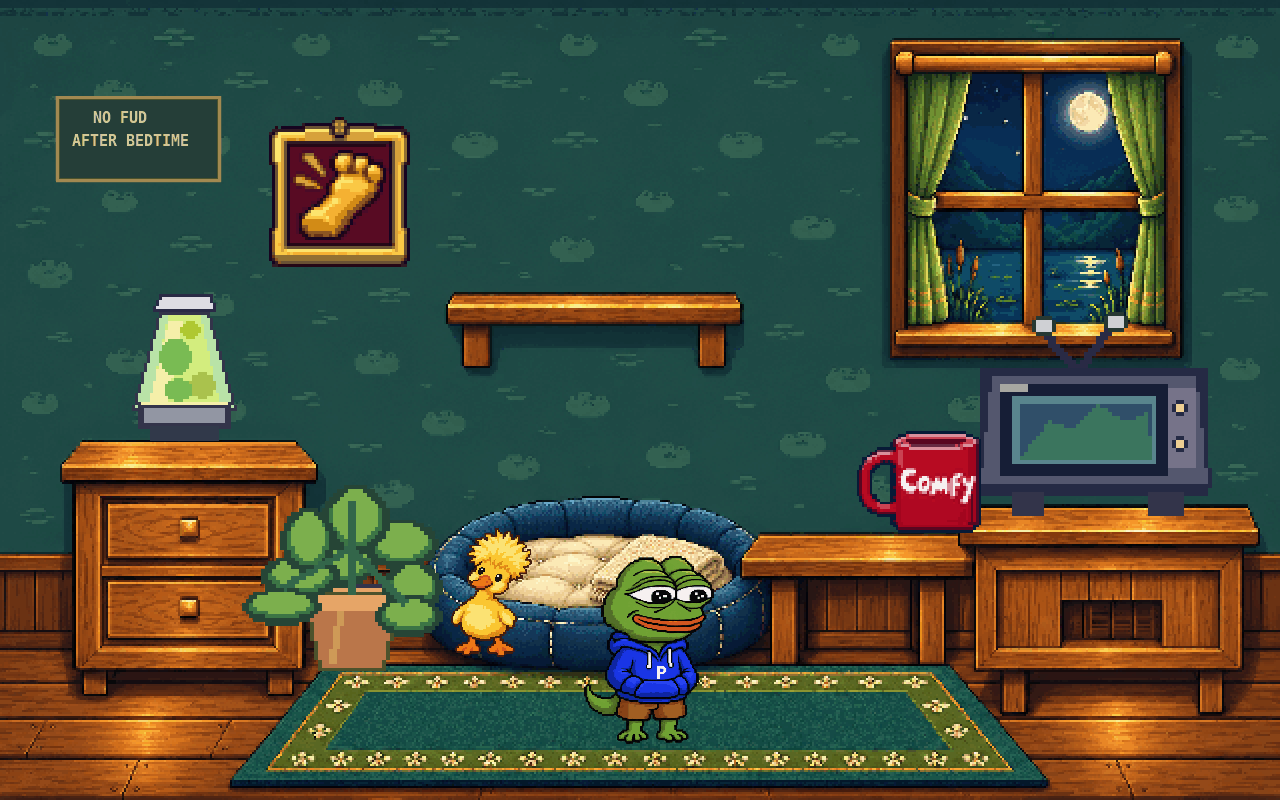
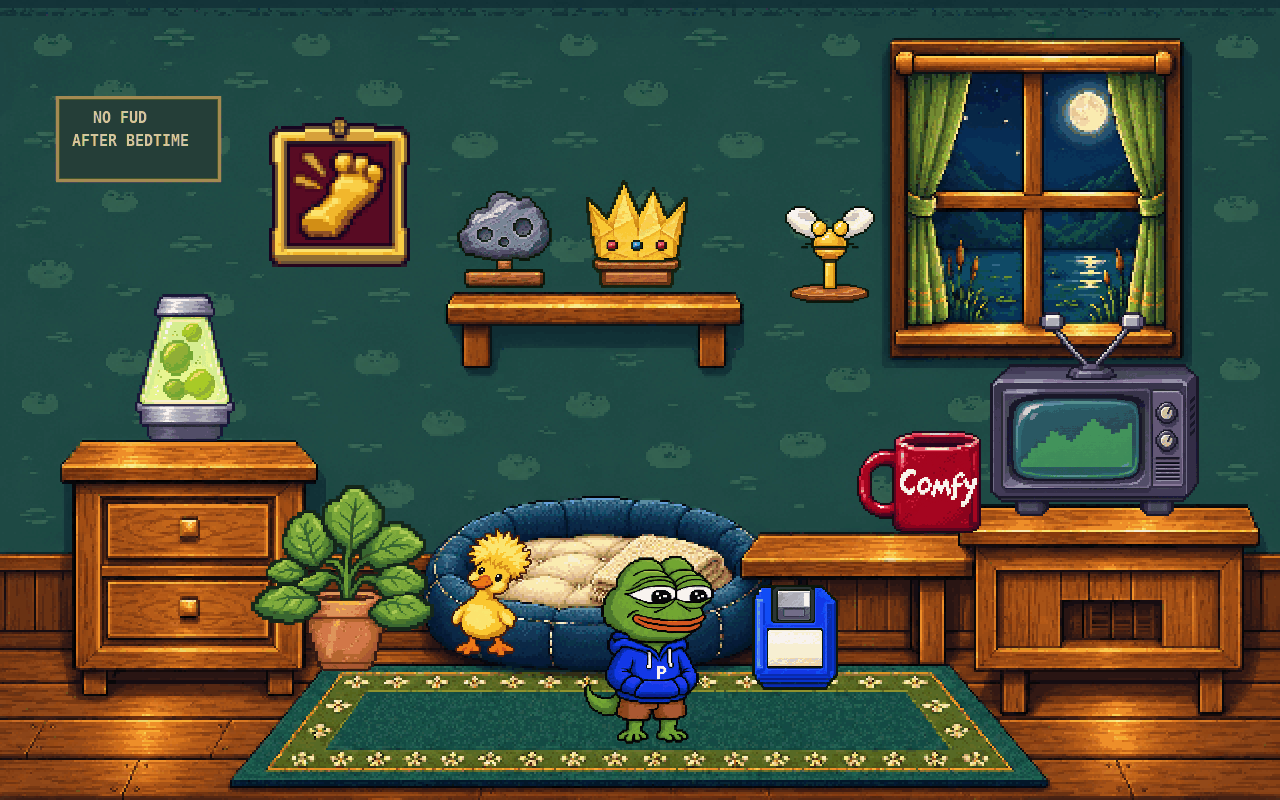
Review late-1990s PepeGochi room props

diff --git a/games/pepegochi/hd-review/room-preview.html b/games/pepegochi/hd-review/room-preview.html
@@ -22,24 +22,32 @@
 <div id="stages" aria-label="Life stage">
   <button data-stage="egg">Egg</button><button data-stage="tadpole">Tadpole</button><button data-stage="froglet" aria-pressed="true">Froglet</button><button data-stage="adult">Adult</button>
 </div>
-<div class="rooms"><section><h2>Original room</h2><div id="old"></div></section><section><h2>Refined room and duckling</h2><div id="new"></div></section></div>
-<p>Both rooms use the actual game renderer, identical slots, unchanged original Golden Foot painting and starter props. Review only: no live assets or game logic changed.</p>
+<div id="decorations" aria-label="Room decorations"><button data-full="false">Starter room</button><button data-full="true" aria-pressed="true">All Passport rewards</button></div>
+<div class="rooms"><section><h2>Original room</h2><div id="old"></div></section><section><h2>Refined 1999 room</h2><div id="new"></div></section></div>
+<p>Both rooms use the actual game renderer and identical slots. The original Golden Foot painting is unchanged. Review only: no live assets or game logic changed.</p>
 </main>
 <script type="module">
-import {renderRoom} from './js/pepegochi-room.mjs';
+import {renderRoom, STARTER_ROOM, fixedPlacements, ITEMS} from './js/pepegochi-room.mjs';
 const resolve = name => new URL(name, window.location.href).href;
-function draw(stage){
-  const original=renderRoom(document,{stage});
-  const revised=renderRoom(document,{stage});
+let selectedStage='froglet', full=true;
+function draw(){
+  const stage=selectedStage;
+  const placements=full?fixedPlacements(Object.keys(ITEMS)):STARTER_ROOM;
+  const original=renderRoom(document,{stage,placements});
+  const revised=renderRoom(document,{stage,placements});
   revised.querySelector('.pgr-bg').src=resolve('room/room_pond_den_v1.png');
-  revised.querySelector('[data-item="rubber_duck"]').src=resolve('room/rubber_duck.png');
+  revised.querySelectorAll('[data-item]').forEach(item=>{
+    if(item.dataset.item!=='p_poster')item.src=resolve('room/'+item.dataset.item+'.png');
+  });
   const pet=revised.querySelector('.pgr-pet');
   pet.src=resolve('frames/pepegochi_'+stage+'_idle.png');
   document.querySelector('#old').replaceChildren(original);
   document.querySelector('#new').replaceChildren(revised);
   document.querySelectorAll('[data-stage]').forEach(b=>b.setAttribute('aria-pressed',String(b.dataset.stage===stage)));
+  document.querySelectorAll('[data-full]').forEach(b=>b.setAttribute('aria-pressed',String((b.dataset.full==='true')===full)));
 }
-document.querySelector('#stages').addEventListener('click',e=>{const b=e.target.closest('[data-stage]');if(b)draw(b.dataset.stage)});
-draw('froglet');
+document.querySelector('#stages').addEventListener('click',e=>{const b=e.target.closest('[data-stage]');if(b){selectedStage=b.dataset.stage;draw()}});
+document.querySelector('#decorations').addEventListener('click',e=>{const b=e.target.closest('[data-full]');if(b){full=b.dataset.full==='true';draw()}});
+draw();
 </script>
 </html>

diff --git a/games/pepegochi/hd-review/README.md b/games/pepegochi/hd-review/README.md
@@ -42,6 +42,13 @@ The owner asked for a modest room/bed refinement and a duck inspired by the supp
 
 - `room/room_pond_den_v1.png`: 640×400 opaque background, optimized indexed PNG; same aspect ratio and logical geometry.
 - `room/rubber_duck.png`: 256×256 RGBA, visible bounding box 117×184 at (68,36); bottom y=220 preserves the former 110/128 logical foot line. Existing item ID, slot, size and interaction are unchanged.
-- `room-preview.html`: original game renderer, two rooms, all four stage selectors; only proposed background, duck and frog image sources replaced in the review. Original Golden Foot painting (`p_poster.png`) and all other starter props are retained without changes.
+- `room-preview.html`: original game renderer, two rooms, all four stage selectors, starter/full Passport decoration toggle. Original Golden Foot painting (`p_poster.png`) remains unchanged; only image sources for the other room items, background and frog are replaced in the review.
 - `room/preview.png`: static composition with the original roomScene coordinates and the proposed images; visual review at double logical size. The browser runtime could not launch in the current environment, so this is geometry-based composition, not a browser screenshot.
 - Existing room static/window/interactions tests: 24 passed. No active assets, game logic or SQL changed.
+
+## Late-1990s room props
+
+All eight remaining items have individually generated, finer pixel-art replacements, maintaining the original room placement and identity. The CRT television now has a convex 4:3 glass screen, bulky gray-purple chassis, rabbit-ear antenna, physical knobs, speaker grille and green price-chart display. The lime lava lamp, terracotta plant and red Comfy mug are visually refined. The four Passport rewards (moon rock, paper crown, Golden Fly, blue 3.5-inch floppy disk) are refreshed to match.
+
+- `export-props.sh ITEM SOURCE.png` fits the generated transparent silhouette into the old prop's doubled alpha bounds, preserving aspect ratio, horizontal center, and bottom anchor (vertical center for the wall-mounted Golden Fly). Outputs 256×256 RGBA to `room/ITEM.png`.
+- The full-room composition includes all ten items at their real `roomScene` coordinates. Rewards retain their existing unlock rules. No production item IDs, slots, renderer, scaling, reward behavior or original painting are changed.
